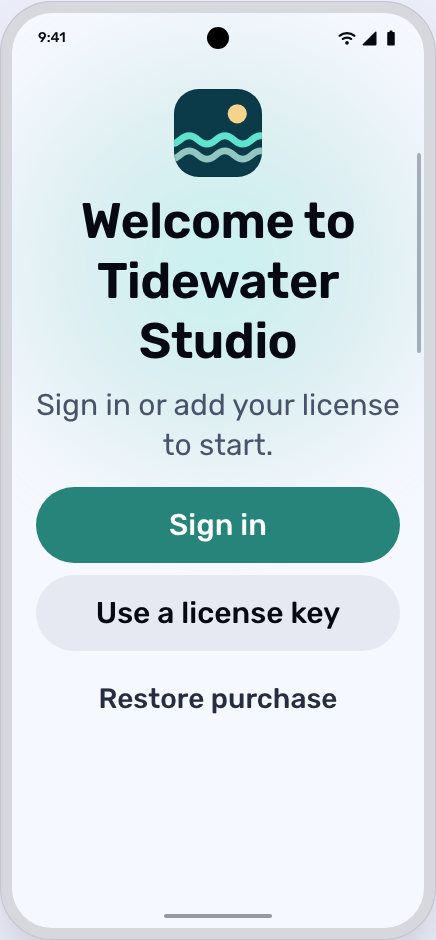
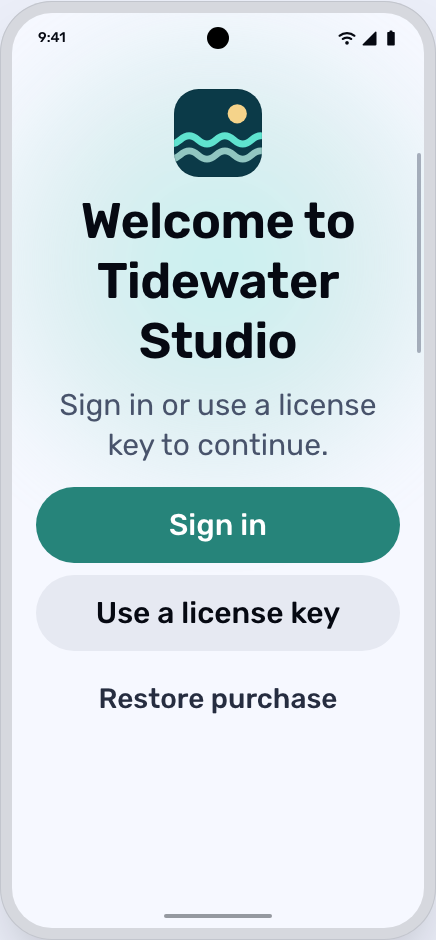
UK-59: android board from the built Compose kit (states, settings, compose-activate, compose-sign-in, tier captions, catalog lede)

Changed region(s): [[0.0894, 0.4011, 0.9243, 0.4936]]

diff --git a/docs/design/ui-kits/android.html b/docs/design/ui-kits/android.html
@@ -823,7 +823,7 @@
           >by Harbor Audio</span
         >
         <p class="body" style="margin-top: 12px; max-width: 30ch">
-          Sign in or add your license to start.
+          Sign in or use a license key to continue.
         </p>
       </div>
       <div
@@ -880,7 +880,7 @@
     <main class="board">
       <!-- 1. Gate -->
       <figure>
-        <figcaption>android · gate</figcaption>
+        <figcaption>android · gate · UK-11 target</figcaption>
         <div class="shot" data-shot="gate">
           <div class="screen" data-tpl="gate"></div>
         </div>
@@ -889,7 +889,8 @@
       <!-- 2. Activate with the IME -->
       <figure>
         <figcaption>
-          android · activate (key parsed, IME up, Activate rides the IME)
+          android · activate (key parsed, IME up, Activate rides the IME) ·
+          UK-11 target
         </figcaption>
         <div class="shot" data-shot="activate">
           <div class="screen">
@@ -976,7 +977,8 @@
       <!-- 3. Sign in: Credential Manager over the gate -->
       <figure>
         <figcaption>
-          android · sign-in (Credential Manager first, then the kit’s methods)
+          android · sign-in (Credential Manager first, then the kit’s methods) ·
+          UK-11 target
         </figcaption>
         <div class="shot" data-shot="sign-in">
           <div class="screen" data-tpl="gate">
@@ -1053,7 +1055,9 @@
 
       <!-- 4. Sign-in hand-off -->
       <figure>
-        <figcaption>android · sign-in hand-off (another device)</figcaption>
+        <figcaption>
+          android · sign-in hand-off (another device) · UK-11 target
+        </figcaption>
         <div class="shot" data-shot="sign-in-handoff">
           <div class="screen">
             <div
@@ -1129,7 +1133,7 @@
 
       <!-- 5. Device limit -->
       <figure>
-        <figcaption>android · device limit</figcaption>
+        <figcaption>android · device limit · UK-11 target</figcaption>
         <div class="shot" data-shot="device-limit">
           <div class="screen">
             <div
@@ -1218,7 +1222,8 @@
       <!-- 6. Update sheet over the host app -->
       <figure>
         <figcaption>
-          android · update prompt (modal bottom sheet, downloading)
+          android · update prompt (modal bottom sheet, downloading) · UK-11
+          target
         </figcaption>
         <div class="shot" data-shot="update">
           <div class="screen" data-tpl="host">
@@ -1294,7 +1299,9 @@
 
       <!-- 7. Settings -->
       <figure>
-        <figcaption>android · settings (account and license)</figcaption>
+        <figcaption>
+          android · settings (account and license) · UK-11 target
+        </figcaption>
         <div class="shot" data-shot="settings">
           <div class="screen">
             <div class="appbar">
@@ -1395,7 +1402,7 @@
       <figure>
         <figcaption>
           android · tablet (1280 × 800 dp): account list and the devices detail
-          pane
+          pane · UK-11 target
         </figcaption>
         <div class="tab" data-shot="tablet">
           <div class="screen">
@@ -1486,6 +1493,7 @@
       <figure>
         <figcaption>
           android · font size 200 % (non-linear scaling; stacks, wraps, scrolls)
+          · UK-11 target
         </figcaption>
         <div class="shot f200" data-shot="font-200">
           <div class="screen">
@@ -1505,7 +1513,7 @@
             >
               <div class="picon" data-art="tidewater" data-size="88"></div>
               <h1 class="display">Welcome to Tidewater Studio</h1>
-              <p class="body">Sign in or add your license to start.</p>
+              <p class="body">Sign in or use a license key to continue.</p>
               <div
                 style="display: grid; gap: 12px; width: 100%; margin-top: 8px"
               >
@@ -1521,7 +1529,8 @@
       <!-- 10. Predictive back -->
       <figure>
         <figcaption>
-          android · predictive back from Activate to the gate (mid-gesture)
+          android · predictive back from Activate to the gate (mid-gesture) ·
+          UK-11 target
         </figcaption>
         <div class="shot" data-shot="predictive-back">
           <div class="screen">
@@ -1578,7 +1587,7 @@
       <figure>
         <figcaption>
           android · native preset with dynamic colour (the host's wallpaper
-          scheme and font)
+          scheme and font) · UK-11 target
         </figcaption>
         <div class="shot dyn" data-shot="native-dynamic">
           <div class="screen" data-tpl="gate"></div>
@@ -1588,7 +1597,7 @@
       <!-- 12. Boot, status, error -->
       <figure>
         <figcaption>
-          android · boot, status (blocked) and error (offline)
+          android · boot, status (blocked) and error (offline) · UK-11 target
         </figcaption>
         <div class="row-shot" data-shot="states">
           <div>
@@ -1825,7 +1834,7 @@
         <figcaption>
           android · expired · four window shapes from the gate-expired snapshot;
           the build shows no product icon yet, the target adds it (DL3). Built
-          today
+          today · UK-11 target
         </figcaption>
         <div class="row-shot" data-shot="shapes-expired">
           <div>
@@ -1867,6 +1876,203 @@
               style="border-radius: 12px; display: block"
             />
             <span class="lbl">Tablet 1280 × 800, shown at half size</span>
+          </div>
+        </div>
+      </figure>
+
+      <!-- 14. Built kit renders (Compose snapshots): states, settings, list-detail, compose mockups -->
+      <figure>
+        <figcaption>
+          android · sdk.compose-activate · the Compose kit's welcome (Sign in
+          and License key with Activate) and the device-limit refusal on
+          activation, phone, branded dark and light. Built today
+        </figcaption>
+        <div class="row-shot" data-shot="compose-activate">
+          <div>
+            <img
+              src="../../../sdks/kotlin/ui/src/test/snapshots/gate-activation/phone-branded-dark.png"
+              width="411"
+              height="891"
+              alt="Welcome with the license key field, dark"
+              style="border-radius: 12px; display: block"
+            />
+            <span class="lbl">Welcome with license key, branded dark</span>
+          </div>
+          <div>
+            <img
+              src="../../../sdks/kotlin/ui/src/test/snapshots/gate-activation/phone-branded-light.png"
+              width="411"
+              height="891"
+              alt="Welcome with the license key field, light"
+              style="border-radius: 12px; display: block"
+            />
+            <span class="lbl">Welcome with license key, branded light</span>
+          </div>
+          <div>
+            <img
+              src="../../../sdks/kotlin/ui/src/test/snapshots/gate-activation-error/phone-branded-light.png"
+              width="411"
+              height="891"
+              alt="Device limit reached on activation, light"
+              style="border-radius: 12px; display: block"
+            />
+            <span class="lbl">Device limit on activation, branded light</span>
+          </div>
+          <div>
+            <img
+              src="../../../sdks/kotlin/ui/src/test/snapshots/gate-activation/phone-font150-polaris-light.png"
+              width="411"
+              height="891"
+              alt="Welcome at font scale 1.5"
+              style="border-radius: 12px; display: block"
+            />
+            <span class="lbl">Font scale 1.5, polaris light</span>
+          </div>
+        </div>
+      </figure>
+      <figure>
+        <figcaption>
+          android · sdk.compose-sign-in · the Compose kit's code step (code,
+          Code expires in m:ss, the device name) and its declined state, phone.
+          Built today
+        </figcaption>
+        <div class="row-shot" data-shot="compose-sign-in">
+          <div>
+            <img
+              src="../../../sdks/kotlin/ui/src/test/snapshots/sign-in/phone-branded-dark.png"
+              width="411"
+              height="891"
+              alt="Sign in with a code, dark"
+              style="border-radius: 12px; display: block"
+            />
+            <span class="lbl">Code step, branded dark</span>
+          </div>
+          <div>
+            <img
+              src="../../../sdks/kotlin/ui/src/test/snapshots/sign-in/phone-branded-light.png"
+              width="411"
+              height="891"
+              alt="Sign in with a code, light"
+              style="border-radius: 12px; display: block"
+            />
+            <span class="lbl">Code step, branded light</span>
+          </div>
+          <div>
+            <img
+              src="../../../sdks/kotlin/ui/src/test/snapshots/sign-in-denied/phone-branded-dark.png"
+              width="411"
+              height="891"
+              alt="Sign-in declined, dark"
+              style="border-radius: 12px; display: block"
+            />
+            <span class="lbl">Sign-in declined, branded dark</span>
+          </div>
+          <div>
+            <img
+              src="../../../sdks/kotlin/ui/src/test/snapshots/sign-in-expired/phone-branded-light.png"
+              width="411"
+              height="891"
+              alt="Sign-in code expired, light"
+              style="border-radius: 12px; display: block"
+            />
+            <span class="lbl">Code expired, branded light</span>
+          </div>
+        </div>
+      </figure>
+      <figure>
+        <figcaption>
+          android · boot and blocked states from the Compose kit: pack progress,
+          offline, update required and error, phone. Built today
+        </figcaption>
+        <div class="row-shot" data-shot="states-built">
+          <div>
+            <img
+              src="../../../sdks/kotlin/ui/src/test/snapshots/boot-progress/phone-branded-dark.png"
+              width="411"
+              height="891"
+              alt="Boot progress, dark"
+              style="border-radius: 12px; display: block"
+            />
+            <span class="lbl">Boot: downloading</span>
+          </div>
+          <div>
+            <img
+              src="../../../sdks/kotlin/ui/src/test/snapshots/boot-offline/phone-branded-light.png"
+              width="411"
+              height="891"
+              alt="Offline, light"
+              style="border-radius: 12px; display: block"
+            />
+            <span class="lbl">Offline</span>
+          </div>
+          <div>
+            <img
+              src="../../../sdks/kotlin/ui/src/test/snapshots/boot-blocked/phone-branded-dark.png"
+              width="411"
+              height="891"
+              alt="Update required, dark"
+              style="border-radius: 12px; display: block"
+            />
+            <span class="lbl">Update required</span>
+          </div>
+          <div>
+            <img
+              src="../../../sdks/kotlin/ui/src/test/snapshots/boot-error/phone-branded-light.png"
+              width="411"
+              height="891"
+              alt="Error, light"
+              style="border-radius: 12px; display: block"
+            />
+            <span class="lbl">Error</span>
+          </div>
+        </div>
+      </figure>
+      <figure>
+        <figcaption>
+          android · settings from the Compose kit: phone (account and
+          configuration stacked) and tablet 1280 × 800 dp (licence and
+          configuration side by side, shown at half size). Built today
+        </figcaption>
+        <div class="row-shot" data-shot="settings-built">
+          <div>
+            <img
+              src="../../../sdks/kotlin/ui/src/test/snapshots/settings/phone-branded-dark.png"
+              width="411"
+              height="891"
+              alt="Settings on a phone, dark"
+              style="border-radius: 12px; display: block"
+            />
+            <span class="lbl">Phone, branded dark</span>
+          </div>
+          <div>
+            <img
+              src="../../../sdks/kotlin/ui/src/test/snapshots/settings/phone-neutral-light.png"
+              width="411"
+              height="891"
+              alt="Settings on a phone, light"
+              style="border-radius: 12px; display: block"
+            />
+            <span class="lbl">Phone, neutral light</span>
+          </div>
+          <div>
+            <img
+              src="../../../sdks/kotlin/ui/src/test/snapshots/settings/tablet-branded-dark.png"
+              width="640"
+              height="400"
+              alt="Settings on a tablet, dark"
+              style="border-radius: 12px; display: block"
+            />
+            <span class="lbl">Tablet 1280 × 800, half size, branded dark</span>
+          </div>
+          <div>
+            <img
+              src="../../../sdks/kotlin/ui/src/test/snapshots/settings/tablet-neutral-light.png"
+              width="640"
+              height="400"
+              alt="Settings on a tablet, light"
+              style="border-radius: 12px; display: block"
+            />
+            <span class="lbl">Tablet 1280 × 800, half size, neutral light</span>
           </div>
         </div>
       </figure>
